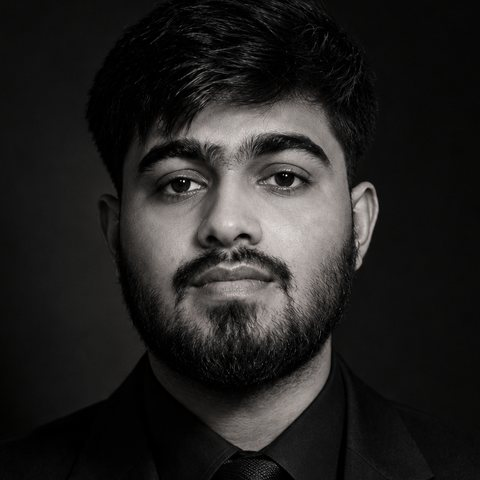
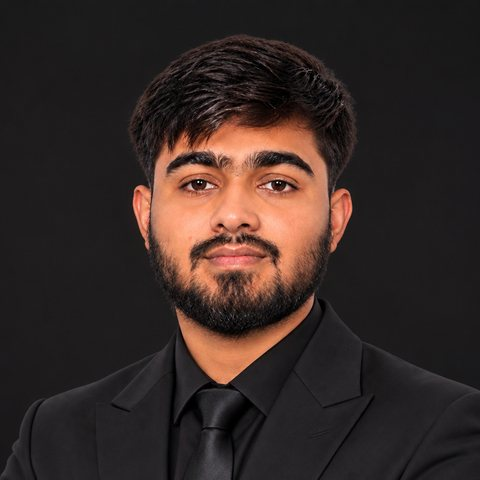
Use a full portrait in the hero, sized to the intro
Replace the small square photo with a colour 3:4 portrait that stretches
to the height of the intro text, so both columns line up. Phones get a
square headshot crop instead. LinkedIn and GitHub become icon buttons so
the hero buttons stay on one row.

diff --git a/public/index.html b/public/index.html
@@ -96,6 +96,8 @@
     .iconbtn { width: 36px; height: 36px; border-radius: 8px; display: grid; place-items: center; border: 1px solid var(--line); background: #fff; }
     .iconbtn:hover { border-color: #cbd0d6; }
     .iconbtn svg { width: 17px; height: 17px; }
+    .iconbtn.hero-ic { width: 41px; height: 41px; }
+    .iconbtn.hero-ic svg { width: 19px; height: 19px; }
 
     .btn { display: inline-flex; align-items: center; justify-content: center; gap: 8px; padding: 9px 16px; border-radius: 8px;
            border: 1px solid var(--line); background: #fff; color: var(--ink); text-decoration: none; font-weight: 500;
@@ -106,7 +108,7 @@
     .btn.sm { padding: 7px 13px; font-size: .88rem; }
 
     /* Intro */
-    .intro { padding: 56px 0 40px; display: grid; grid-template-columns: 1fr 200px; gap: 48px; align-items: start; }
+    .intro { padding: 56px 0 40px; display: grid; grid-template-columns: 1fr 300px; gap: 48px; align-items: stretch; }
     .intro h1 { font-size: 2.5rem; line-height: 1.15; margin: 0 0 4px; letter-spacing: -0.02em; }
     .role { font-size: 1.15rem; color: var(--ink); margin: 0 0 18px; }
     .intro p.lead { font-size: 1.06rem; max-width: 620px; }
@@ -116,7 +118,8 @@
     .contact a, .contact span { display: inline-flex; align-items: center; gap: 7px; color: var(--text); text-decoration: none; }
     .contact a:hover { color: var(--link); }
     .contact svg.ic { color: var(--muted); width: 16px; height: 16px; }
-    .photo { width: 200px; height: 200px; border-radius: 12px; object-fit: cover; display: block; }
+    .photo-col picture { display: block; height: 100%; }
+    .photo { width: 100%; height: 100%; min-height: 380px; border-radius: 12px; object-fit: cover; object-position: 50% 18%; display: block; background: #1f1f1f; }
 
     .facts { display: grid; grid-template-columns: repeat(4, 1fr); border: 1px solid var(--line); border-radius: 10px; margin: 0; padding: 0; list-style: none; }
     .facts li { padding: 16px 20px; font-size: .9rem; color: var(--muted); }
@@ -177,7 +180,7 @@
       .topnav, .social { display: none; }
       .intro { grid-template-columns: 1fr; gap: 24px; }
       .intro .photo-col { order: -1; }
-      .photo { width: 120px; height: 120px; }
+      .photo { width: 120px; height: 120px; min-height: 0; object-position: center; }
       .facts { grid-template-columns: repeat(2, 1fr); }
       .facts li:nth-child(3) { border-left: 0; }
       .facts li:nth-child(n+3) { border-top: 1px solid var(--line); }
@@ -223,8 +226,8 @@
           <a class="btn dark" href="/resume"><svg class="ic" aria-hidden="true"><use href="icons.svg#i-file"/></svg>View resume</a>
           <a class="btn" href="mailto:hamza81khan81@gmail.com"><svg class="ic" aria-hidden="true"><use href="icons.svg#i-mail"/></svg>Email</a>
           <a class="btn" href="https://wa.me/919137966960" target="_blank" rel="noopener"><svg class="lg" aria-hidden="true"><use href="icons.svg#whatsapp"/></svg>WhatsApp</a>
-          <a class="btn" href="https://www.linkedin.com/in/hamza-khan-3a2b0024a/" target="_blank" rel="me noopener"><svg class="lg" aria-hidden="true"><use href="icons.svg#linkedin"/></svg>LinkedIn</a>
-          <a class="btn" href="https://github.com/hamzakhan0712" target="_blank" rel="me noopener"><svg class="lg" aria-hidden="true"><use href="icons.svg#github"/></svg>GitHub</a>
+          <a class="iconbtn hero-ic" href="https://www.linkedin.com/in/hamza-khan-3a2b0024a/" target="_blank" rel="me noopener" aria-label="LinkedIn" title="LinkedIn"><svg class="lg" aria-hidden="true"><use href="icons.svg#linkedin"/></svg></a>
+          <a class="iconbtn hero-ic" href="https://github.com/hamzakhan0712" target="_blank" rel="me noopener" aria-label="GitHub" title="GitHub"><svg class="lg" aria-hidden="true"><use href="icons.svg#github"/></svg></a>
         </div>
         <ul class="contact" aria-label="Contact details">
           <li><a href="mailto:hamza81khan81@gmail.com"><svg class="ic" aria-hidden="true"><use href="icons.svg#i-mail"/></svg>hamza81khan81@gmail.com</a></li>
@@ -234,8 +237,9 @@
       </div>
       <div class="photo-col">
         <picture>
-          <source srcset="hamza-khan.webp" type="image/webp">
-          <img class="photo" src="hamza-khan.jpg" alt="Hamza Khan" width="200" height="200">
+          <source media="(max-width: 860px)" srcset="hamza-khan.webp" type="image/webp">
+          <source srcset="hamza-khan-portrait.webp" type="image/webp">
+          <img class="photo" src="hamza-khan-portrait.jpg" alt="Hamza Khan" width="600" height="800">
         </picture>
       </div>
     </div>
